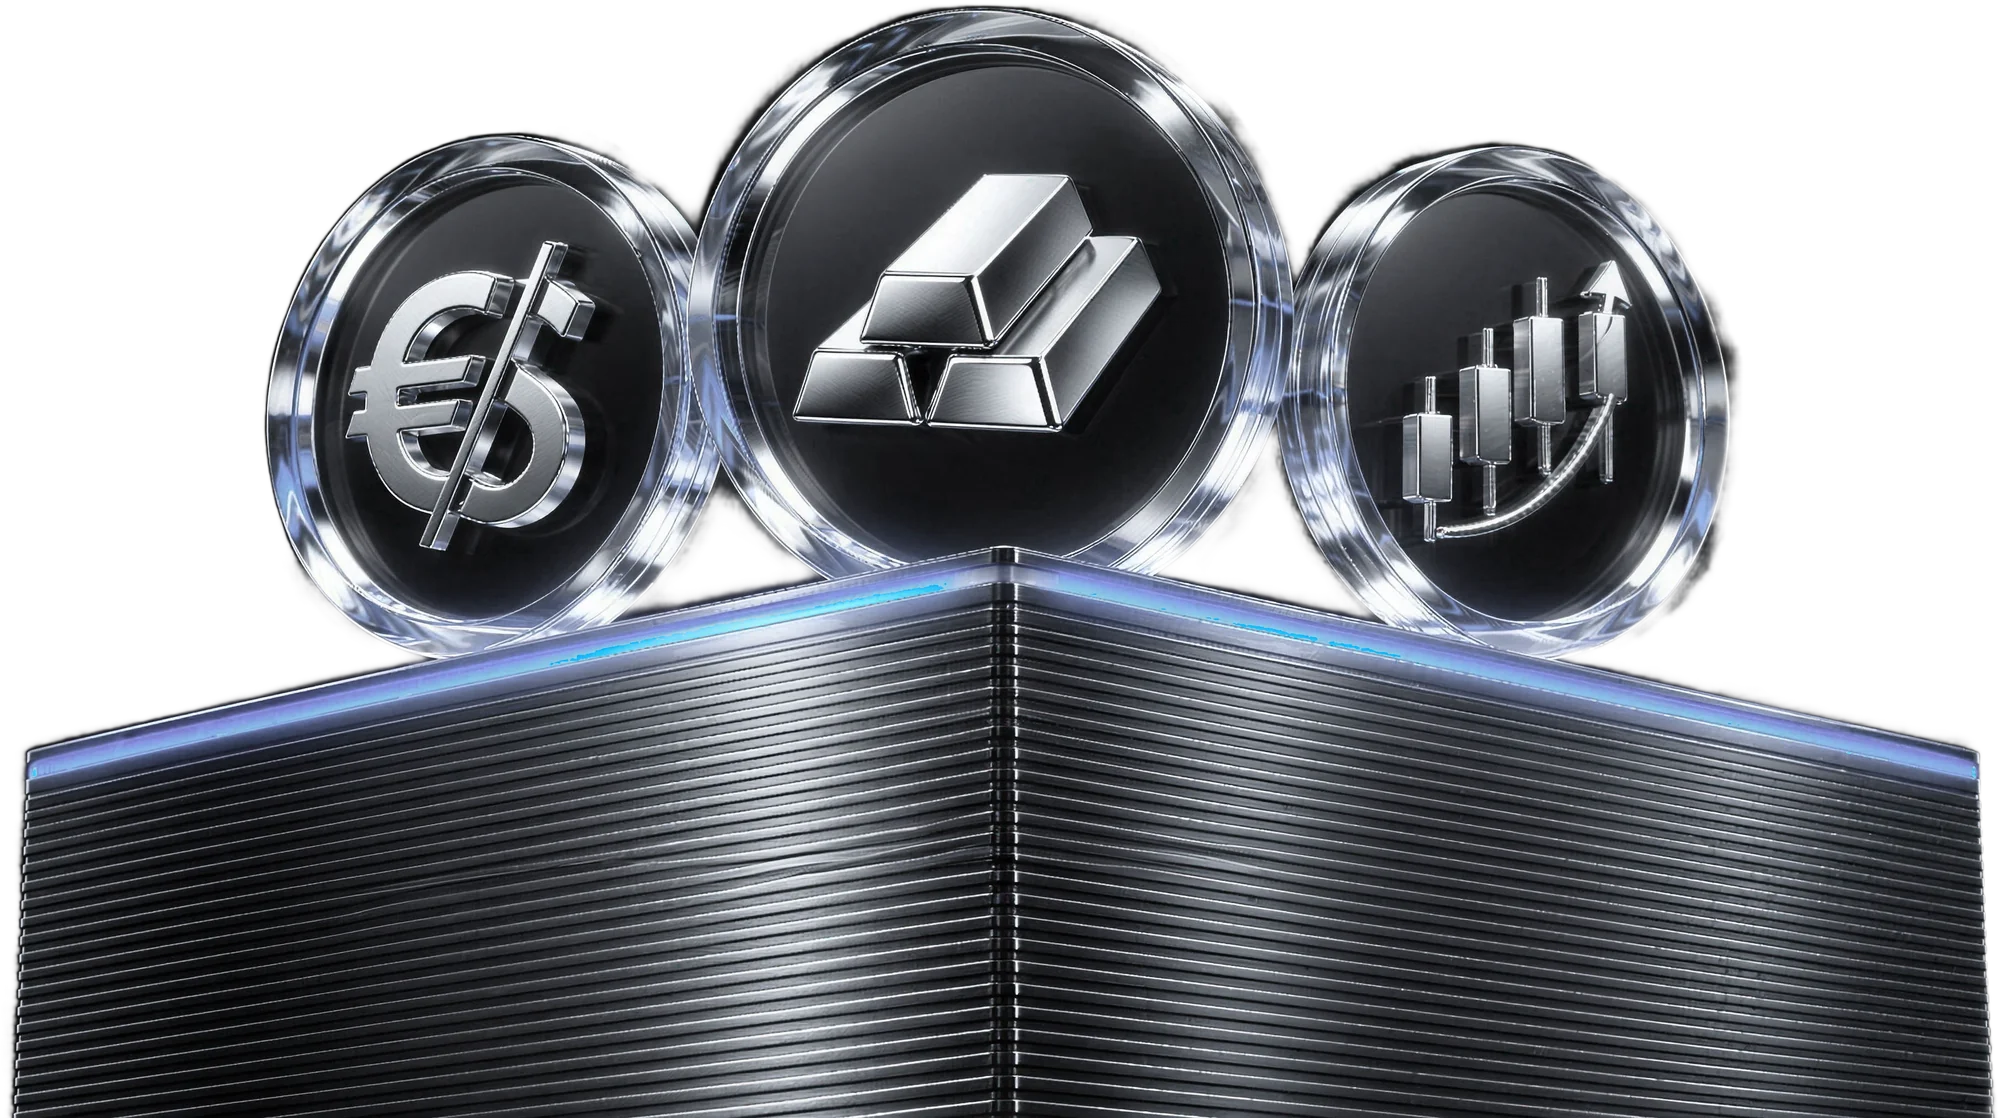
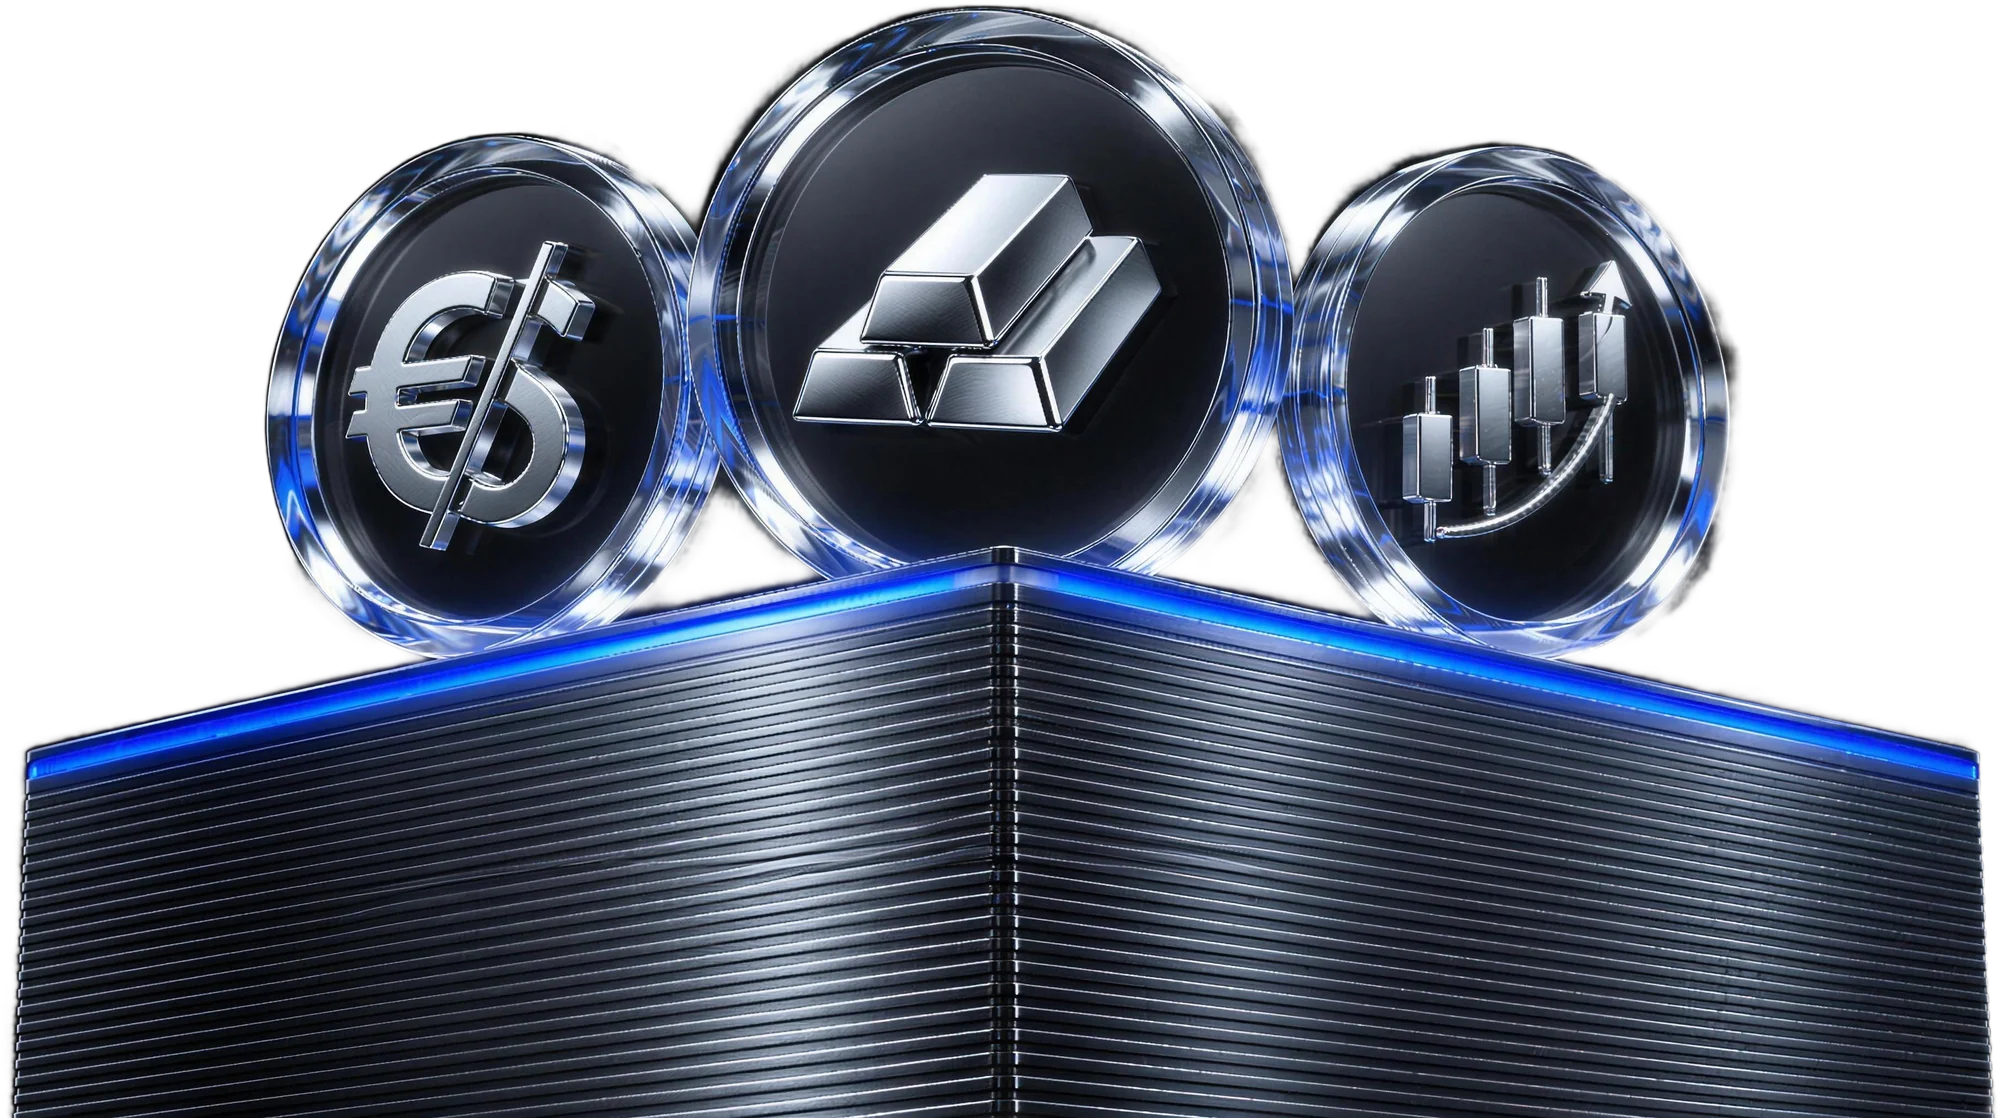
CFD hero art: restore original blue beam light

diff --git a/cfd.html b/cfd.html
@@ -444,8 +444,8 @@
     </div>
   </div>
   <picture class="hx-art">
-    <source media="(max-width:980px)" srcset="assets/img/cfd-hero-glass-m.webp" width="1100" height="615">
-    <img src="assets/img/cfd-hero-glass.webp" alt="Three glass coins engraved with a currency symbol, gold bars and a rising candlestick chart, resting on a ribbed metal pedestal" width="2000" height="1118" fetchpriority="high" decoding="async">
+    <source media="(max-width:980px)" srcset="assets/img/cfd-hero-glass-m.webp?v=2" width="1100" height="615">
+    <img src="assets/img/cfd-hero-glass.webp?v=2" alt="Three glass coins engraved with a currency symbol, gold bars and a rising candlestick chart, resting on a ribbed metal pedestal" width="2000" height="1118" fetchpriority="high" decoding="async">
   </picture>
 </section>
 
